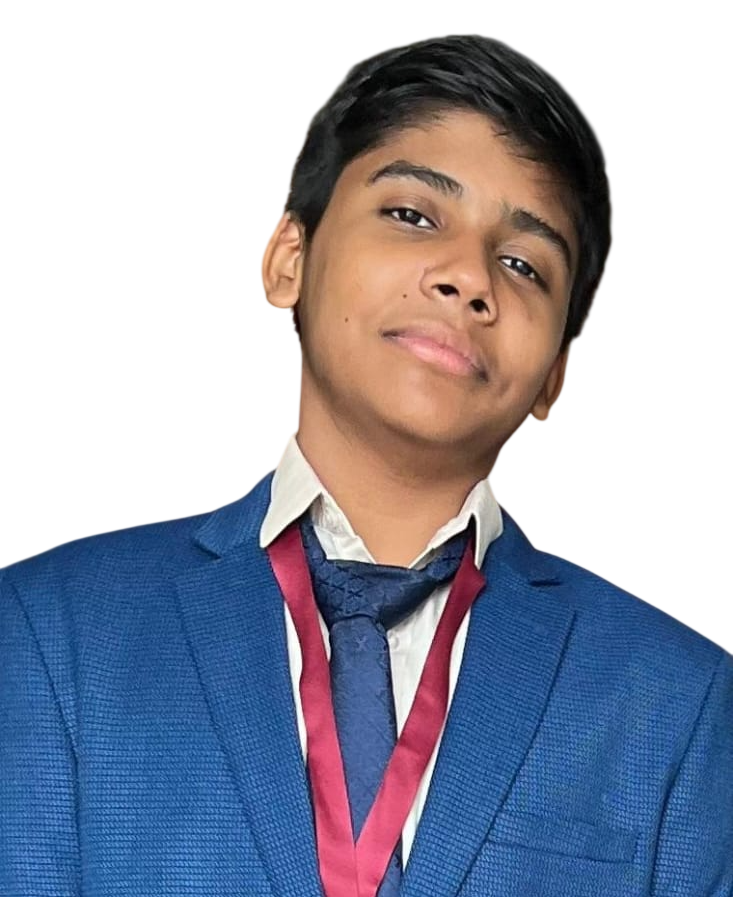
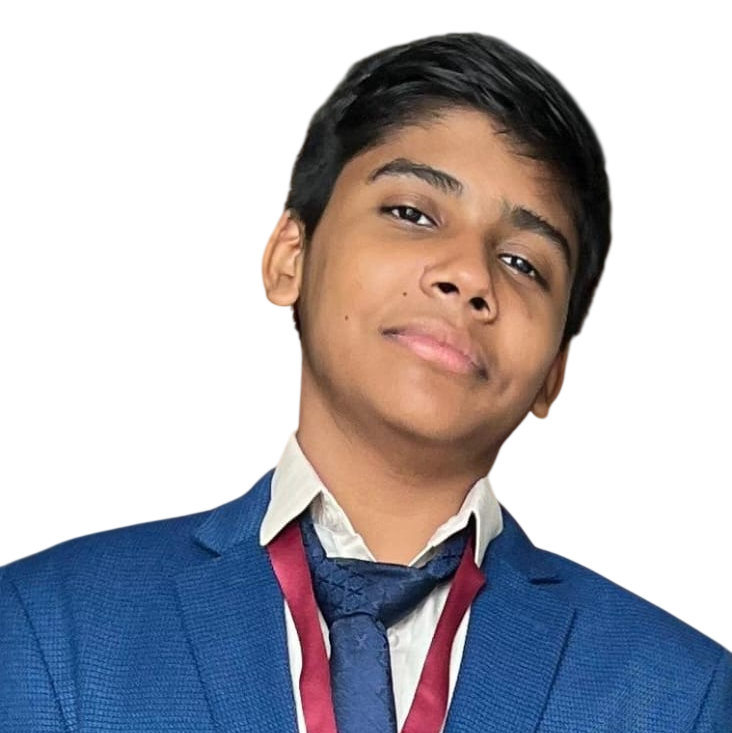
day5

diff --git a/practice.css b/practice.css
@@ -37,14 +37,14 @@ footer {
 
 .photo {
     width: 250px;
-    height: 250px;
+    max-width: 100%;
+    height: auto;
     object-fit: cover;
     border-radius: 60%;
     border: 4px solid rgb(38, 52, 73);
     box-shadow: 0 4px 12px rgba(0, 0, 0, 0.5);
 }
 figure {
-    margin: 10;
     padding-top: 20px;
 }
 ul {
@@ -81,6 +81,7 @@ h3 {
     background-color: rgb(38, 52, 73);
     padding: 20px;
     width: 200px;
+    box-sizing: border-box;
 }
 
 .container {
@@ -89,7 +90,6 @@ h3 {
     flex-wrap: wrap;
     gap: 20px;
     justify-content: center;
-    align-items: center;
 }
 label {
     display: block;
@@ -123,11 +123,22 @@ button {
     color: white;
 }
 
-button:hover {
-    background-color: rgb(0, 245, 255);
+button {
+    display: block;
+    align-items: center;
+    background-color: rgb(255, 46, 136);
     color: black;
 }
 
 ::placeholder{
     font-family: 'Times New Roman', Times, serif;
+}
+@media (max-width: 600px) {
+    .container {
+        flex-direction: column;
+    }
+
+    .card {
+        width: 100%;
+    }
 }

diff --git a/Practice.html b/Practice.html
@@ -1,6 +1,7 @@
 <html>
 <head>
     <meta charset="UTF-8">
+    <meta name="viewport" content="width=device-width, initial-scale=1.0">
     <title>PORTFOLIO</title>
     <link rel="stylesheet" href="practice.css">
 </head>
